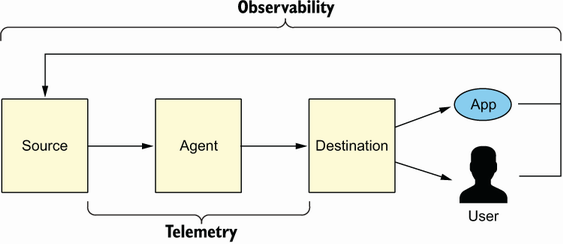
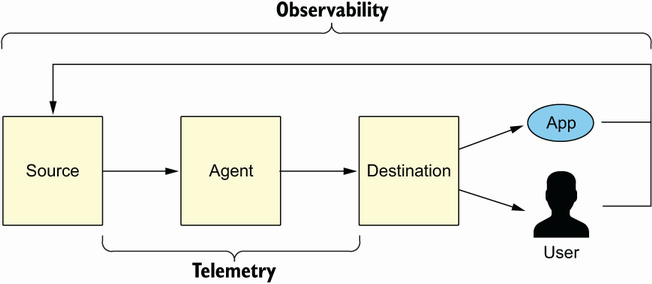
chapter 2 almost done some minor improvements to do.

Changed region(s): [[0.0, 0.0, 1.0, 0.918], [0.151, 0.832, 0.5737, 1.0], [0.8757, 0.6311, 0.9059, 0.7172]]

diff --git a/chapters/examples/chapter02.tex b/chapters/examples/chapter02.tex
@@ -60,7 +60,7 @@ Zudem sind die 5 Microbenchmarks typische Beispiele für Microservices - klar ab
  \label{fig:chapter02:EDA}
 \end{figure}
 
-Abbildung~\ref{fig:chapter02:EDA} stellt das obige Konzept der Microservices dar.
+Abbildung~\ref{fig:chapter02:EDA} stellt das obige Konzept der Microservices visuell dar.
 
 \subsection{Event-Driven Architecture}
 In einer \ac{EDA} kommunizieren Dienste nicht synchron über \ac{HTTP}-Anfragen, sondern asynchron über Ereignisse~\cite{AWSEventDrivenArchitecture}.
@@ -114,7 +114,7 @@ FaaS-Plattformen setzen intern auf Container-Technologie. Bei einem Aufruf wird 
  \caption{Function as a Service \href{https://www.wallarm.com/what/what-is-faas-function-as-a-service}{[source]}}
  \label{fig:chapter02:faas}
 \end{figure}
-Abbildung~\ref{fig:chapter02:faas} zeigt das Prinzip von FaaS. Entwickler stellen nur den Code bereit, die Plattform kümmert sich um die Ausführung, Skalierung, Verwaltung usw.
+Abbildung~\ref{fig:chapter02:faas} zeigt das Prinzip von FaaS. Entwickler stellen nur den Code bereit, die Plattform kümmert sich um die Ausführung, Skalierung, Verwaltung usw. 
 
 \subsection{Abgrenzung zu anderen Servicemodellen}
 
@@ -124,8 +124,8 @@ Im Gegensatz zu \ac{IaaS}, bei dem der Nutzer virtuelle Maschinen selbst verwalt
 
 Serverless-Anwendungen reduzieren den operativen Aufwand und ermöglichen eine kosteneffiziente Skalierung. Allerdings gibt es spezifische Herausforderungen, die für die Messung relevant sind:
 \begin{itemize}
-    \item \textbf{Cold Starts:} Die Initialisierungsverzögerung beim ersten Aufruf kann mehrere hundert Millisekunden bis Sekunden betragen~\cite{Rodriguez2024Evaluation}. Diese wird in dieser Arbeit als eine der drei Hauptmetriken erfasst.
-    \item \textbf{Technische Beschränkungen:} Die maximale Ausführungsdauer ist auf 15 Minuten begrenzt, was für die kurzen Microbenchmarks in dieser Arbeit unproblematisch ist~\cite{ServerlessAWSLambda}.
+    \item \textbf{Cold Starts:} Die Initialisierungsverzögerung (Init Duration) beim ersten Aufruf kann mehrere hundert Millisekunden bis Sekunden betragen~\cite{Rodriguez2024Evaluation}. Diese wird in der vorliegenden Arbeit als eine der drei Hauptmetriken erfasst.
+    \item \textbf{Technische Beschränkungen:} Die maximale Ausführungsdauer ist auf 15 Minuten begrenzt, was für die kurzen Ausführungsdauern der Microbenchmarks in dieser Arbeit unproblematisch ist~\cite{ServerlessAWSLambda}.
     \item \textbf{Vendor Lock-in:} Durch die Verwendung von AWS-spezifischen Diensten (Lambda, DynamoDB) entsteht eine Bindung an den Anbieter. Da diese Arbeit jedoch ausschließlich auf AWS durchgeführt wird, ist dies für die Aussagekraft der Ergebnisse nicht einschränkend.
 \end{itemize}
 
@@ -138,18 +138,20 @@ AWS Lambda ist der von Amazon Web Services bereitgestellte FaaS-Dienst und gilt 
 
 Eine Lambda-Funktion ist ein Code-Block, der durch ein Ereignis (z. B. eine \ac{HTTP}-Anfrage, ein Datei-Upload) ausgelöst wird. Die Funktion besitzt genau einen \textit{Handler}, der die Ereignisdaten verarbeitet. Bei der Bereitstellung werden Code und Abhängigkeiten als ZIP- oder Container-Image gepackt~\cite{AWSLambdaBasics}.  
 Lambda erstellt bei Bedarf eine isolierte Ausführungsumgebung (\textit{execution environment}), die nach der Ausführung kurz beibehalten wird, um nachfolgende Aufrufe schneller zu bedienen (Warmstart)~\cite{AWSLambdaBasics}. Für diese Arbeit ist diese Umgebung wichtig, da sie die Messung von Kalt- und Warmstarts ermöglicht.  
-Der Aufruf kann direkt über die Konsole, CLI oder SDKs erfolgen oder – im produktiven Einsatz typisch – durch andere AWS-Dienste (Trigger). Lambda-Funktionen können von vielen AWS-Diensten wie S3, DynamoDB, API Gateway oder SQS ausgelöst werden~\cite{AWSLambdaServices}.
+Der Aufruf kann direkt über die Konsole, CLI oder SDKs erfolgen oder im produktiven Einsatz typisch durch andere AWS-Dienste (Trigger). Lambda-Funktionen können von vielen AWS-Diensten wie S3, DynamoDB, API Gateway oder SQS ausgelöst werden~\cite{AWSLambdaServices}.
 
 \subsection{Grenzen und Besonderheiten für die Messung}
 
-Für die experimentelle Evaluation sind folgende Grenzen relevant:
+Für die experimentelle Evaluation sind folgende Grenzen und Besonderheiten relevant:
 \begin{itemize}
-    \item \textbf{Cold Starts:} Die Initialisierungsdauer wird über die CloudWatch-Metrik \textit{Init Duration} erfasst~\cite{Rodriguez2024Evaluation}.
-    \item \textbf{Speicher und CPU:} Der Arbeitsspeicher kann von 128 MB bis 10.240 MB konfiguriert werden; die CPU-Leistung skaliert proportional dazu~\cite{AWSLambdaMemory}. Diese Arbeit verwendet eine feste Speichergröße (1024 MB), um die Vergleichbarkeit zu gewährleisten.
-    \item \textbf{Ephemeral Storage:} Lambda stellt einen flüchtigen lokalen Speicher im \texttt{/tmp}-Verzeichnis bereit, der von 512 MB bis 10.240 MB konfigurierbar ist~\cite{AWSLambdaEphemeralStorage}. Für die Benchmarks wird dieser Speicher nicht genutzt.
-    \item \textbf{Concurrency:} Standardmäßig sind 1000 parallele Ausführungen pro Konto erlaubt~\cite{AWSLambdaConcurrency}. Da die Experimente sequenziell durchgeführt werden, spielt diese Grenze keine Rolle.
+    \item \textbf{Cold Starts:} Die Initialisierungsdauer wird über die CloudWatch-Metrik \textit{Init Duration} erfasst~\cite{Rodriguez2024Evaluation}. Es ist wichtig, diese Metrik separat von der Gesamtdauer und den Wamstarts zu betrachten, da sie den spezifischen Overhead der Instrumentierung bei Kaltstarts widerspiegelt.
+    \item \textbf{Speicher und CPU:} Der Arbeitsspeicher kann von 128 MB bis 10.240 MB konfiguriert werden; die CPU-Leistung skaliert proportional dazu~\cite{AWSLambdaMemory}.
+    \item \textbf{Ephemeral Storage:} Lambda stellt einen flüchtigen lokalen Speicher im \texttt{/tmp}-Verzeichnis bereit, der von 512 MB bis 10.240 MB konfigurierbar ist~\cite{AWSLambdaEphemeralStorage}. Für die Benchmarks wird dieser Speicher nicht genutzt, jedoch ist er weiterhin für die Messergebnisse relevant.
+    \item \textbf{Concurrency:} Standardmäßig sind 1000 parallele Ausführungen pro Konto erlaubt~\cite{AWSLambdaConcurrency} das kann aber auf Anfrage durch AWS angepasst werden. Das ist besonders relevant, da AWS-Lambda-Funktionen automatisch skalieren. Dadurch werden alle Messungen beeinflusst und eine präzise Dokumentation ist notwendig.
 \end{itemize}
-Die nutzungsbasierte Abrechnung pro GB-Sekunde unterstreicht die wirtschaftliche Relevanz des durch Tracing verursachten Overheads.
+All das sind wichtige Einflussfaktoren, die bei der Messung des Overheads durch OpenTelemetry berücksichtigt werden müssen und präzise Dokumentation erfordern. 
+Die Dokumentation ist entscheidend, um die Reproduzierbarkeit der Messungen zu gewährleisten und gegebenenfalls zukünftige Arbeiten zu ermöglichen, die auf diesen Ergebnissen aufbauen möchten (siehe Kapitel~\ref{ch:related-work}).
+Neben diesen technischen Besonderheiten ist auch die Pay-Per-Use-Abrechnung (in GB-Sekunden) von AWS Lambda relevant, da jeder durch die Instrumentierung verursachte Overhead direkt zu höheren Kosten führt. 
 
 \subsection{Lambda Layers}
 \label{subsec:lambda-layers}
@@ -158,18 +160,19 @@ Ein \textit{Layer} ist ein ZIP-Archiv, das Bibliotheken oder Konfigurationen kap
 
 \begin{figure}[H]
  \centering
- \includegraphics[width=0.75\textwidth]{gfx/examples/lambda-layers-diagram.png}
+ \includegraphics[width=1.0\textwidth]{gfx/examples/lambda-layers-diagram.png}
  \caption{AWS Lambda Layers~\cite{AWSLambdaLayers}}
  \label{fig:chapter02:aws_lambda_layers}
 \end{figure}
-Abbildung~\ref{fig:chapter02:aws_lambda_layers} zeigt schematisch, wie Layer in die Ausführungsumgebung eingebunden werden.
+Abbildung~\ref{fig:chapter02:aws_lambda_layers} zeigt schematisch die Funktionsweise und die konkreten Vorteile von Lambda Layers.
+
 
 \subsection{Häufigste Anwendungsfälle von AWS Lambda}
 \label{subsec:lambda-benchmarks}
 
 \begin{figure}[H]
  \centering
- \includegraphics[width=0.75\textwidth]{gfx/examples/Microbenchmarks.png}
+ \includegraphics[width=0.6\textwidth]{gfx/examples/Microbenchmarks.png}
  \caption{Häufigste Anwendungsfälle von AWS Lambda~\cite{10254754}}
  \label{fig:chapter02:aws_lambda_use_cases}
 \end{figure}
@@ -181,20 +184,27 @@ Die in Abbildung~\ref{fig:chapter02:aws_lambda_use_cases} dargestellten fünf Mi
     \item Leseoperation aus einer DynamoDB-Tabelle
     \item Schreiboperation in eine DynamoDB-Tabelle
 \end{enumerate}
-Diese fünf Szenarien bilden die Grundlage für die experimentelle Evaluation in Kapitel 4 dieser Arbeit. Für jedes Szenario wird jeweils eine instrumentierte und eine nicht-instrumentierte Version der Funktion in den drei Sprachen Java, Python und Node.js implementiert.
+Diese fünf Szenarien bilden die Grundlage für die experimentelle Evaluation in Kapitel~\ref{ch:methodik} und Kapitel~\ref{ch:results}. Für jedes Szenario wird jeweils eine instrumentierte und eine nicht-instrumentierte Version der Funktion in den drei Sprachen Java, Python und Node.js implementiert.
 
 \section{Observability in verteilten Systemen}
 \label{sec:observability}
 
-Observability beschreibt die Fähigkeit, den internen Zustand eines Systems allein durch seine externen Ausgaben (Logs, Metriken, Traces) zu verstehen~\cite{Hausenblas2024Cloud}. In verteilten, Cloud-nativen Umgebungen ist dies eine Grundvoraussetzung für Fehlerdiagnose und Performance-Optimierung.
+Observability beschreibt die Fähigkeit, den internen Zustand eines Systems allein durch seine externen Ausgaben 
+(Logs, Metriken, Traces) zu verstehen. In verteilten, Cloud-nativen Umgebungen ist dies eine Grundvoraussetzung für 
+Fehlerdiagnose und Performance-Optimierung~\cite{Hausenblas2024Cloud}.
 
 \begin{figure}[H]
  \centering
- \includegraphics[width=1.0\textwidth]{gfx/examples/observability_struktur.png}
+ \includegraphics[width=0.9\textwidth]{gfx/examples/observability_struktur.png}
  \caption{Zentrale Konzepte der Observability~\cite{Hausenblas2024Cloud}}
  \label{fig:chapter02:observability}
 \end{figure}
-Abbildung~\ref{fig:chapter02:observability} stellt die zentralen Komponenten der Observability dar: System under Observation, Signale, Agenten und Ziele.
+Abbildung~\ref{fig:chapter02:observability} stellt die zentralen Komponenten der Observability dar. 
+Das beobachtete \textit{System} (System under Observation) umfasst die gesamte cloud-native Plattform samt Anwendungen, 
+von deren \textit{Sources} also Quellen (wie Mikroservices oder Datenbanken) durch Instrumentierung beobachtbare \textit{Signals} 
+(Signale) wie Logs, Metriken und Traces ausgehen. Diese Daten werden von \textit{Agents} (Agenten) gesammelt, verarbeitet 
+und an verschiedene \textit{Destinations} (Ziele) weitergeleitet, um sie für Dashboards, Alarme oder Analysen zu nutzen. 
+Dieser gesamte Kreislauf vom Erfassen über das Routing bis zum Speichern der Daten wird als \textit{Telemetry} (Telemetrie) bezeichnet.
 
 \subsection{Die drei Säulen der Observability}
 Die drei zentralen Signaltypen sind:
@@ -203,7 +213,8 @@ Die drei zentralen Signaltypen sind:
     \item \textbf{Metriken:} numerische Messwerte (z. B. CPU-Auslastung, Fehlerrate), die sich für Dashboards und Alerts eignen.
     \item \textbf{Traces:} Nachverfolgung einer Anfrage durch verschiedene Dienste hinweg.
 \end{itemize}
-Erst die Kombination aller drei Säulen ermöglicht ein vollständiges Bild des Systemverhaltens~\cite{Hausenblas2024Cloud}. Für diese Arbeit sind \textit{Metriken} (Laufzeit, Speicher, Kaltstartdauer) und \textit{Traces} (zur Sicherstellung der korrekten Instrumentierung) die relevanten Signaltypen.
+Erst die Kombination aller drei Säulen ermöglicht ein vollständiges Bild des Systemverhaltens~\cite{Hausenblas2024Cloud}. 
+Für diese Arbeit sind \textit{Metriken} (Laufzeit, Speicher, Kaltstartdauer), \textit{Logs} (zur Extraktion von Metriken und Fehleranalyse) und \textit{Traces} (zur Validierung der Instrumentierung) relevant.
 
 \subsection{OpenTelemetry und Portabilität}
 Ein wichtiges Prinzip moderner Observability ist die Vermeidung von Vendor-Lock-in durch offene Standards. OpenTelemetry hat sich als herstellerneutraler Standard für die Erfassung und den Export von Telemetriedaten etabliert~\cite{OpenTelemetryInstrumentation,OpenTelemetryWhatIs,OpenTelemetryDocs}.  